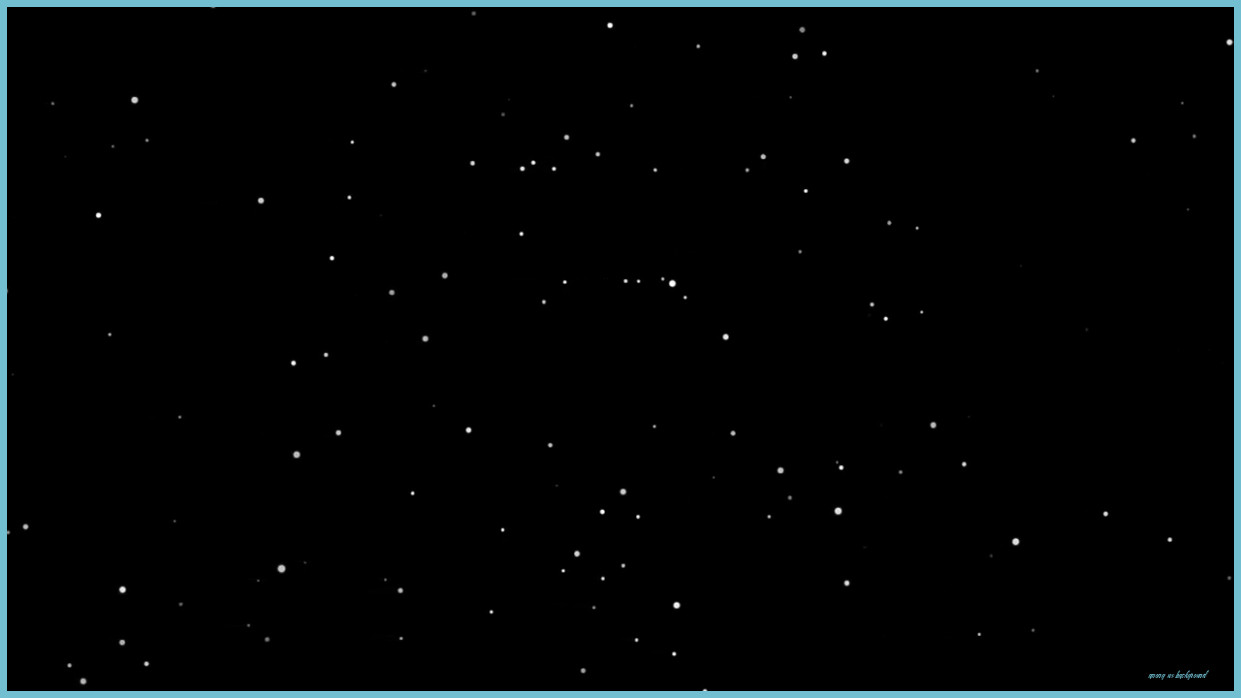
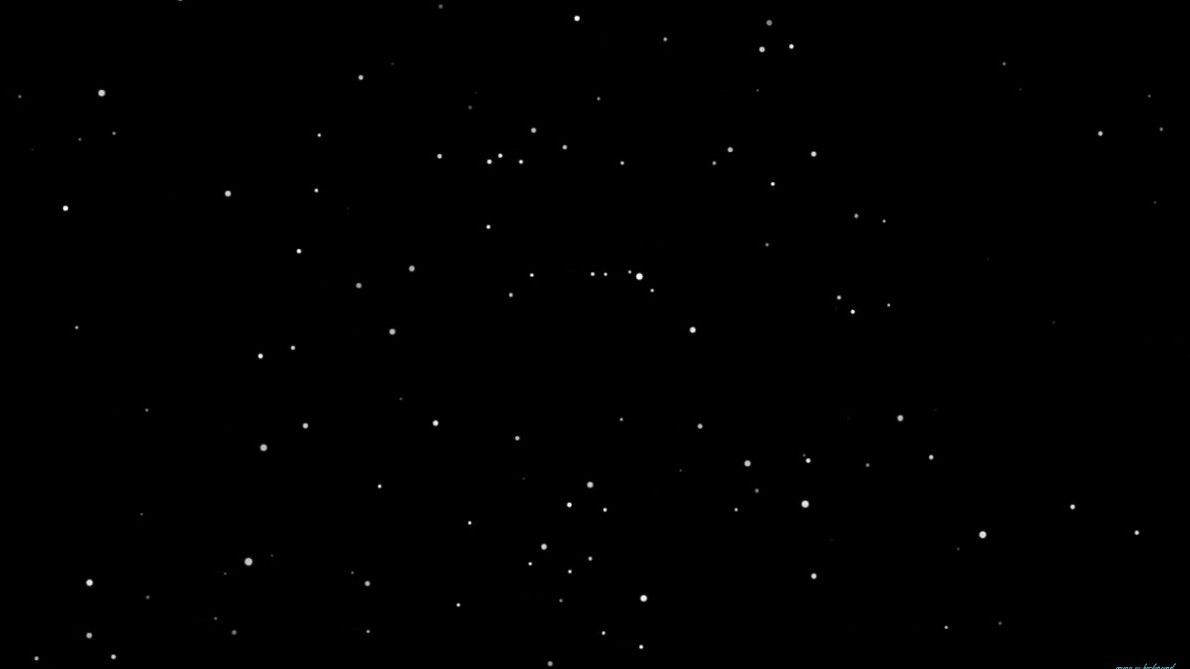
creates a dial pad and timer. Change title font and background image

diff --git a/src/App.css b/src/App.css
@@ -1,40 +1,112 @@
 body {
   background-color: #1f1e1e;
+  background-image: url("./images/background.jpg");
+  background-repeat: no-repeat;
   color: rgb(141, 135, 135);
   display: flex;
   justify-content: center;
   box-sizing: border-box;
+  margin: 0;
+  margin: 0;
+  overflow: hidden;
 }
 
-.main-container {
-  margin-top: 100px;
+header {
+  font-family: "AmongUs";
   display: flex;
-  background-image: url('./images/timer.png');
-  background-size: contain;
-  background-repeat: no-repeat;
+  justify-content: center;
+  background-color: #0a0a0a;
+  margin: 0;
   width: 100%;
 }
 
-.timer-container, .dialPad-container {
-  width: 300px;
-  height: 400px;
+.title-spotlight {
+  color: red;
 }
 
-.dialPad-container ul{
+#root {
+  width: 100%;
+}
+
+.App {
+  display: flex;
+  flex-flow: column wrap;
+  justify-content: center;
+  align-items: center;
+}
+
+.main-container {
+  display: flex;
+  justify-content: center;
+  margin-top: 50px;
+  background-image: url("./images/timer.png");
+  background-size: contain;
+  background-repeat: no-repeat;
+  min-width: 470px;
+  min-height: 260px;
+}
+
+.timer-container,
+.dial-pad-container {
+  width: 50%;
+  display: flex;
+  justify-content: center;
+  align-items: center;
+}
+
+.timer-container {
+  margin-top: 40px;
+  font-size: 3em;
+  color: green;
+  width: 48%;
+}
+
+.dial-pad-buttons {
+  width: 150px;
+  flex-flow: row wrap;
+  display: flex;
+  justify-content: center;
+  align-items: center;
+  background-color: rgb(165, 165, 165);
+  padding: 17px 8px;
+}
+.dial-pad-container button {
+  width: 40px;
+  height: 40px;
+  margin: 2px;
+  border: 3px solid grey;
+  border-radius: 5px;
+  font-size: 1.5em;
+}
+
+.dial-pad-container button:hover {
+  background-color: rgb(219, 215, 215);
+}
+
+/* 
+.dialPad-container .dial-pad {
   display: flex;
   flex-flow: row wrap;
-  width: 200px;
+  width: 300px;
   justify-content: center;
+  margin-left: 53px;
+  background-color: rgb(165, 165, 165);
+  padding: 18px 20px;
+  border-radius: 10px;
 }
 
-.dialPad-container li {
+.dialPad-container button {
   list-style-type: none;
   color: red;
   background-color: cyan;
-  margin:5px;
-  padding: 15px 20px;
+  margin: 5px;
+  padding: 30px 35px;
+  width:50px;
+  height: 50px;
+  border: 3px solid grey;
+  border-radius: 10px;
+  font-size: 1em;
 }
-
 
 .timer-container {
   display: flex;
@@ -42,5 +114,8 @@ body {
   align-items: center;
   color: green;
   font-size: 3em;
+  width: 50%;
 }
 
+.timer {
+} */

diff --git a/src/components/DialPad.jsx b/src/components/DialPad.jsx
@@ -13,12 +13,12 @@ class DialPad extends Component {
     const numbers = [];
     const MAX = 10;
     for (let i = 0; i < MAX; i += 1) {
-      numbers.push(<li key={ i }>{ i }</li>);
+      numbers.push(<button type="button" key={ i }>{ i }</button>);
     }
     return (
-      <ul className="dial-pad">
+      <div className="dial-pad-buttons">
         {numbers}
-      </ul>);
+      </div>);
   }
 }
 

diff --git a/src/components/Header.jsx b/src/components/Header.jsx
@@ -4,8 +4,12 @@ class Header extends Component {
   render() {
     return (
       <header>
-        <h1>There is 1 Timer among us</h1>
-        {/* // dark mode and language selection */}
+        <h1>
+          There is
+          <span className="title-spotlight"> 1 Timer </span>
+          {' '}
+          among us
+        </h1>
       </header>
     );
   }

diff --git a/src/App.jsx b/src/App.jsx
@@ -16,10 +16,9 @@ class App extends Component {
               05:30
             </span>
           </div>
-          <div className="dialPad-container">
+          <div className="dial-pad-container">
             <DialPad />
           </div>
-
         </div>
 
       </div>

diff --git a/src/index.css b/src/index.css
@@ -11,3 +11,8 @@ code {
   font-family: source-code-pro, Menlo, Monaco, Consolas, 'Courier New',
     monospace;
 }
+
+@font-face {
+  font-family: 'AmongUs';
+  src: url('./fonts/VCR_OSD_MONO_1.001.ttf');
+}
